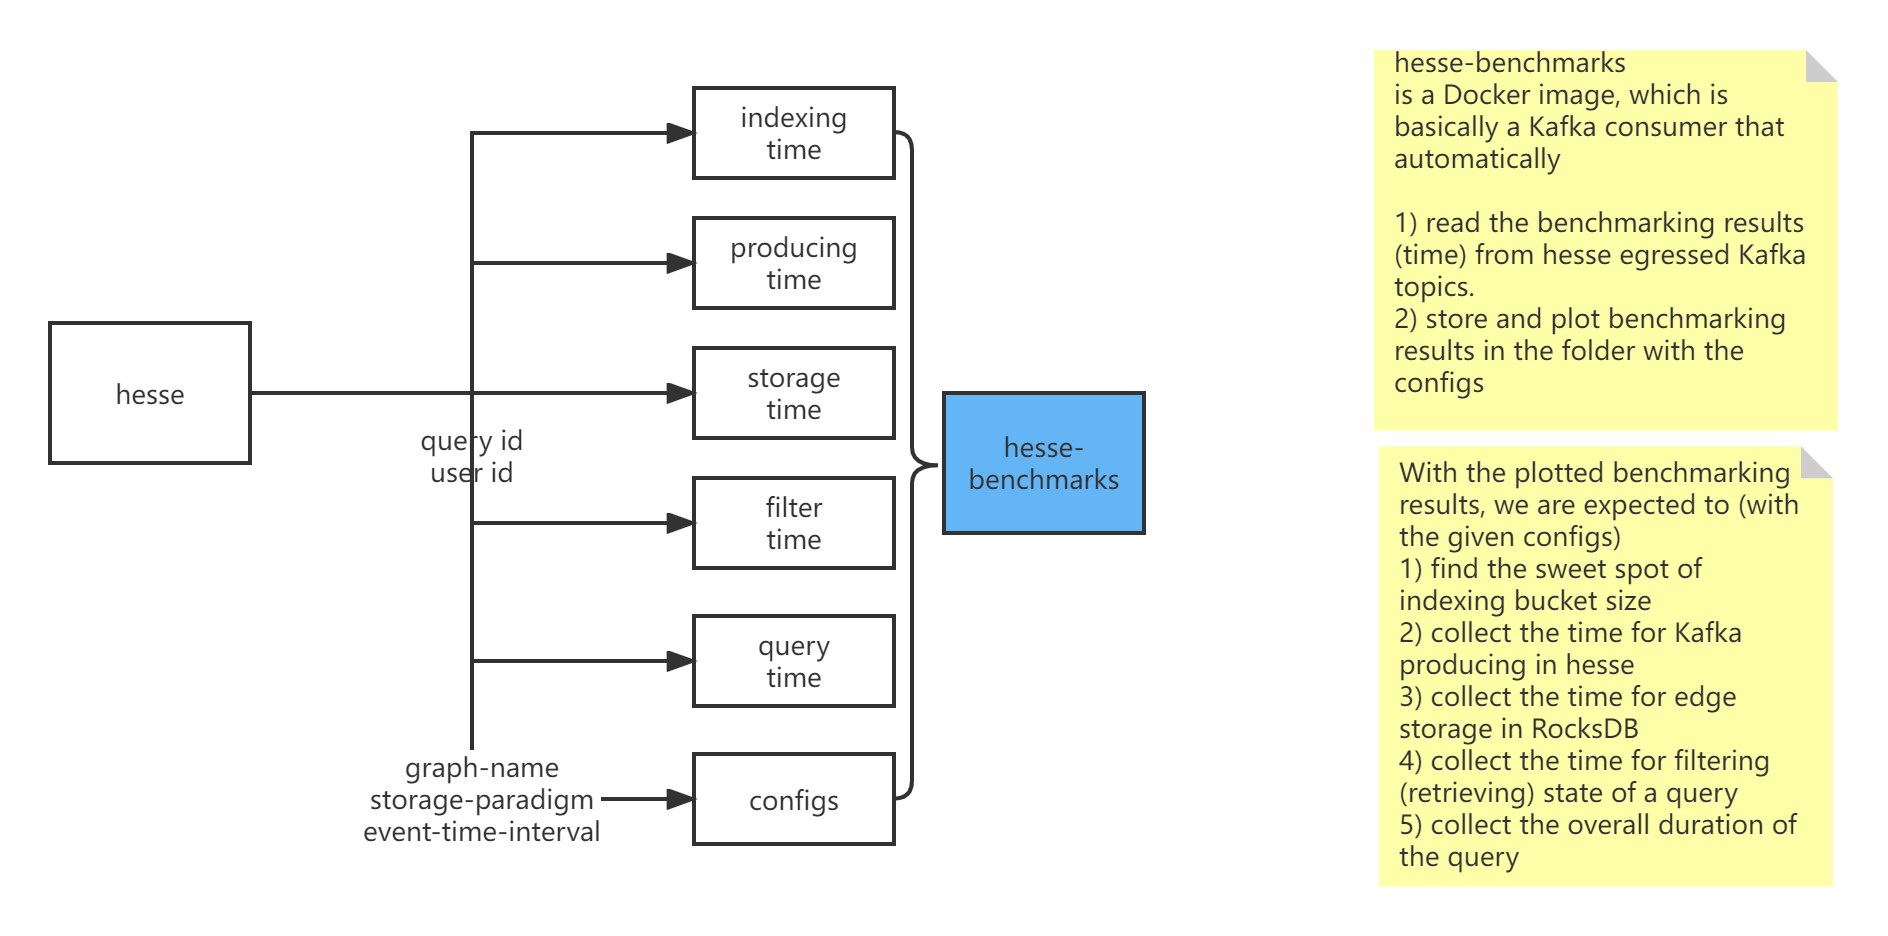
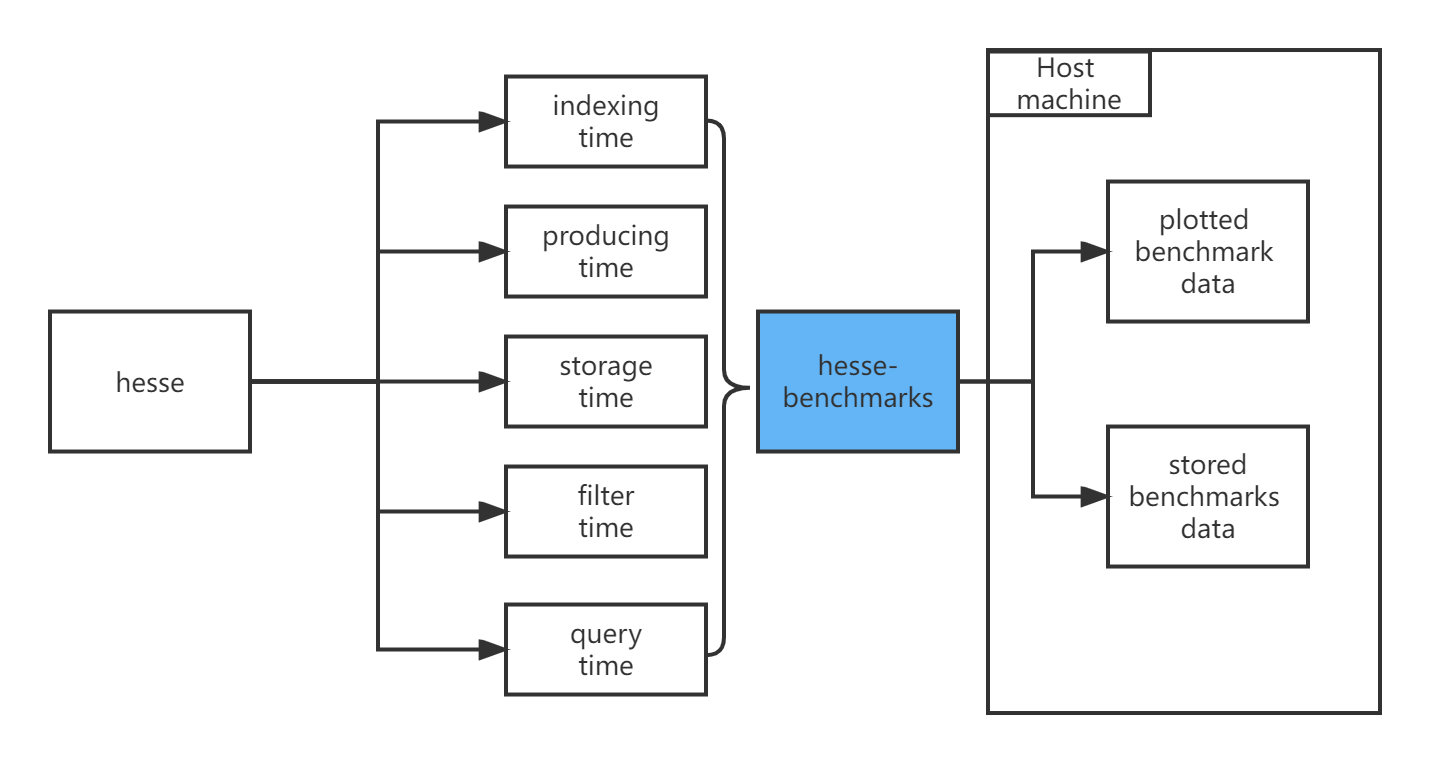
fix README

Changed region(s): [[0.0308, 0.0301, 0.9846, 0.9634], [0.0308, 0.572, 0.1846, 0.6021], [0.0308, 0.3312, 0.1231, 0.3613]]

diff --git a/README.md b/README.md
@@ -29,3 +29,18 @@ services:
     volumes:
     - ./benchmarks:/app/results
 ```
+
+## What is it
+
+hesse-benchmarks is a Docker image, which is basically a multi-thread Kafka consumer that automatically
+
+1) read the benchmarking results (time) from hesse egressed Kafka topics.
+2) store and plot benchmarking results in the container folder volume mapping to the host benchmarks folder of [hesse](https://github.com/Spycsh/hesse)
+
+With the plotted benchmarking results, we are expected to
+
+1) find the sweet spot of indexing bucket size
+2) persist and plot the time for Kafka producing in hesse
+3) persist and plot the time for edge storage in RocksDB
+4) persist and plot the time for filtering (retrieving) state of a query
+5) persist and plot the duration of the queries
